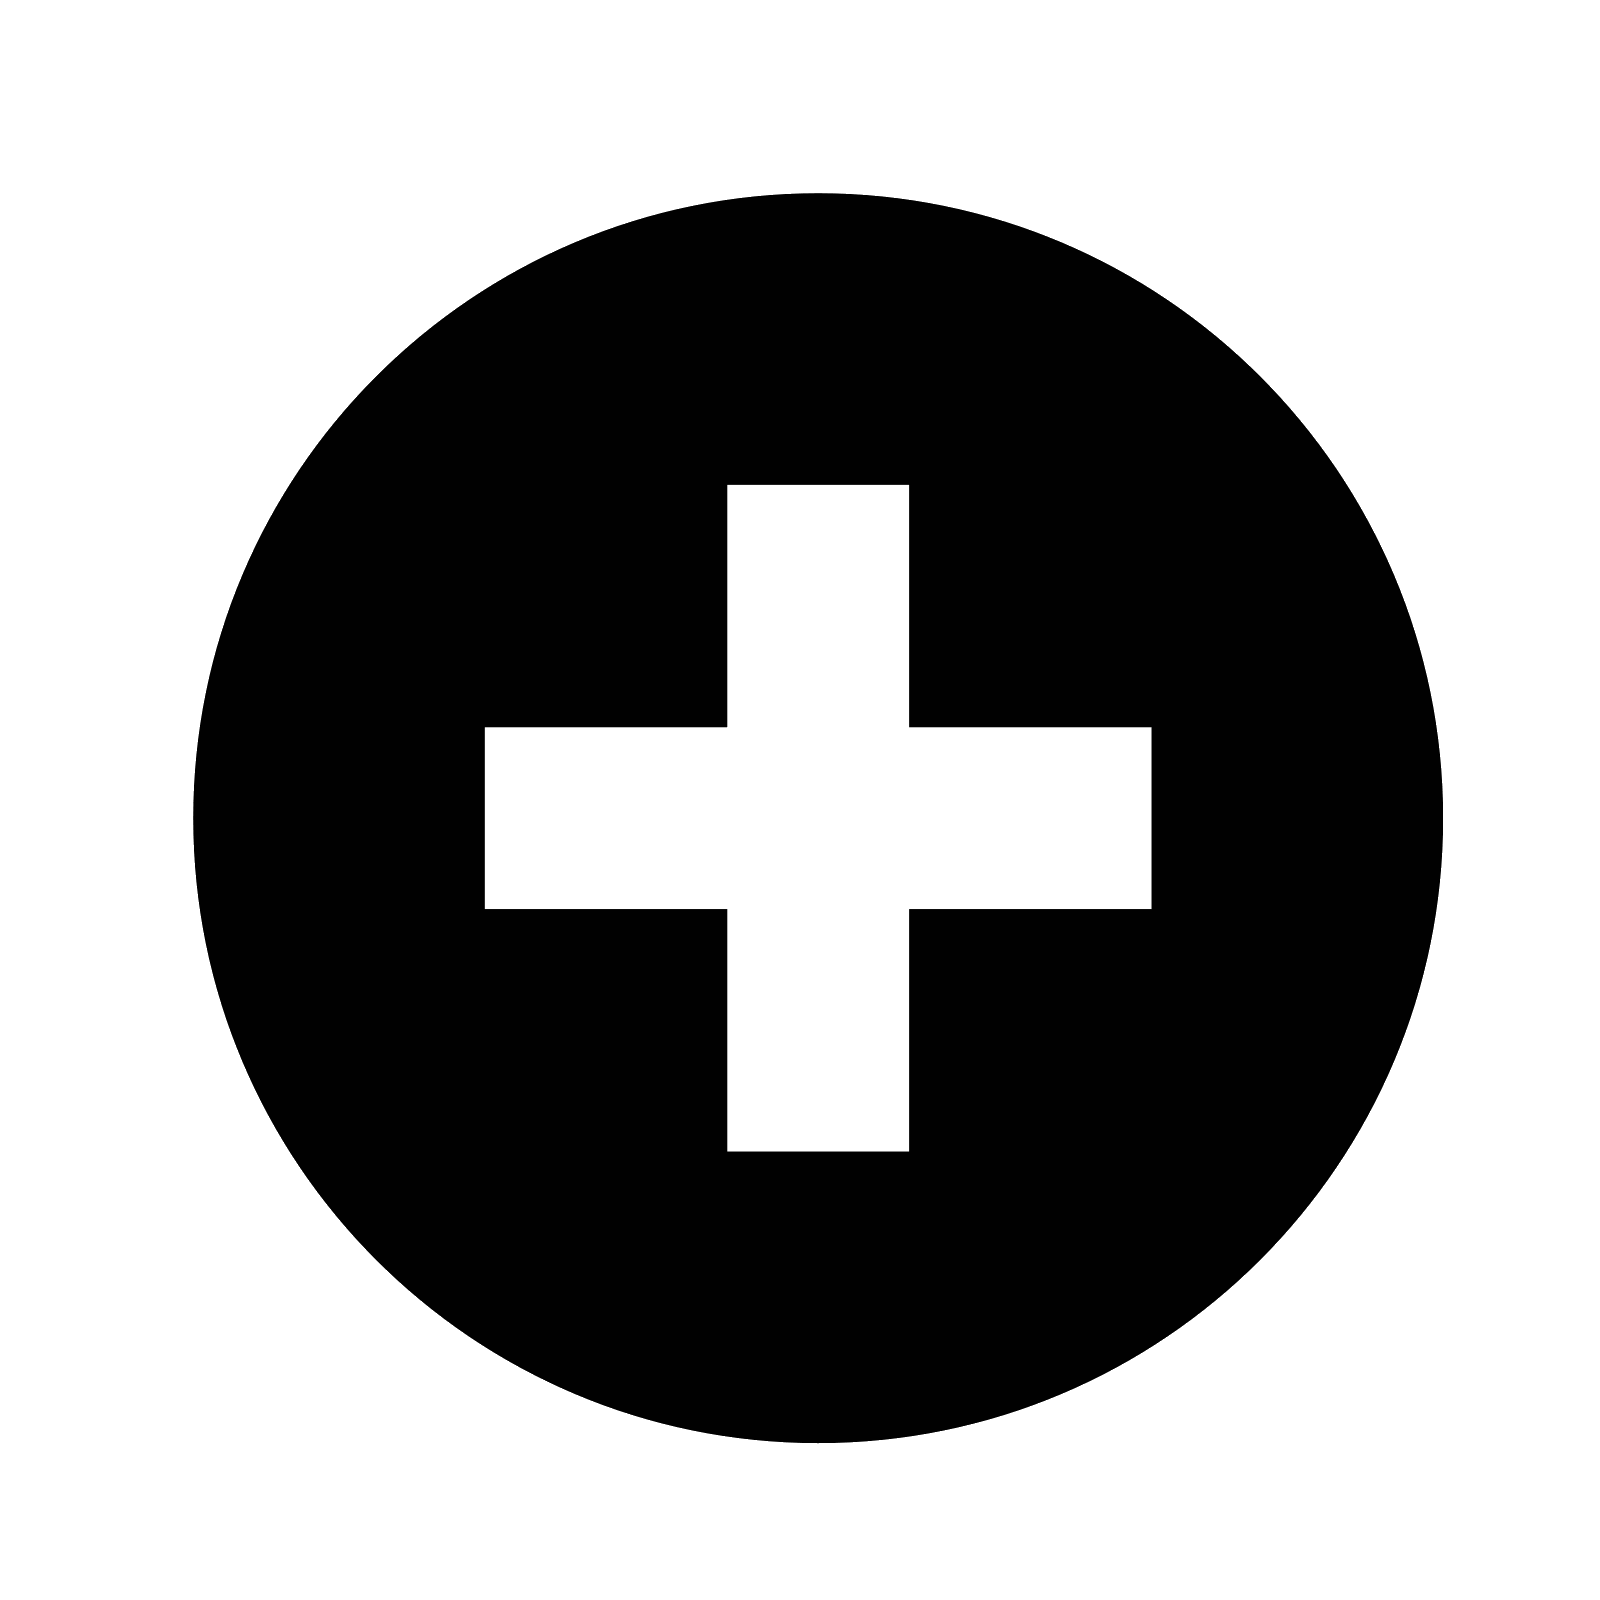
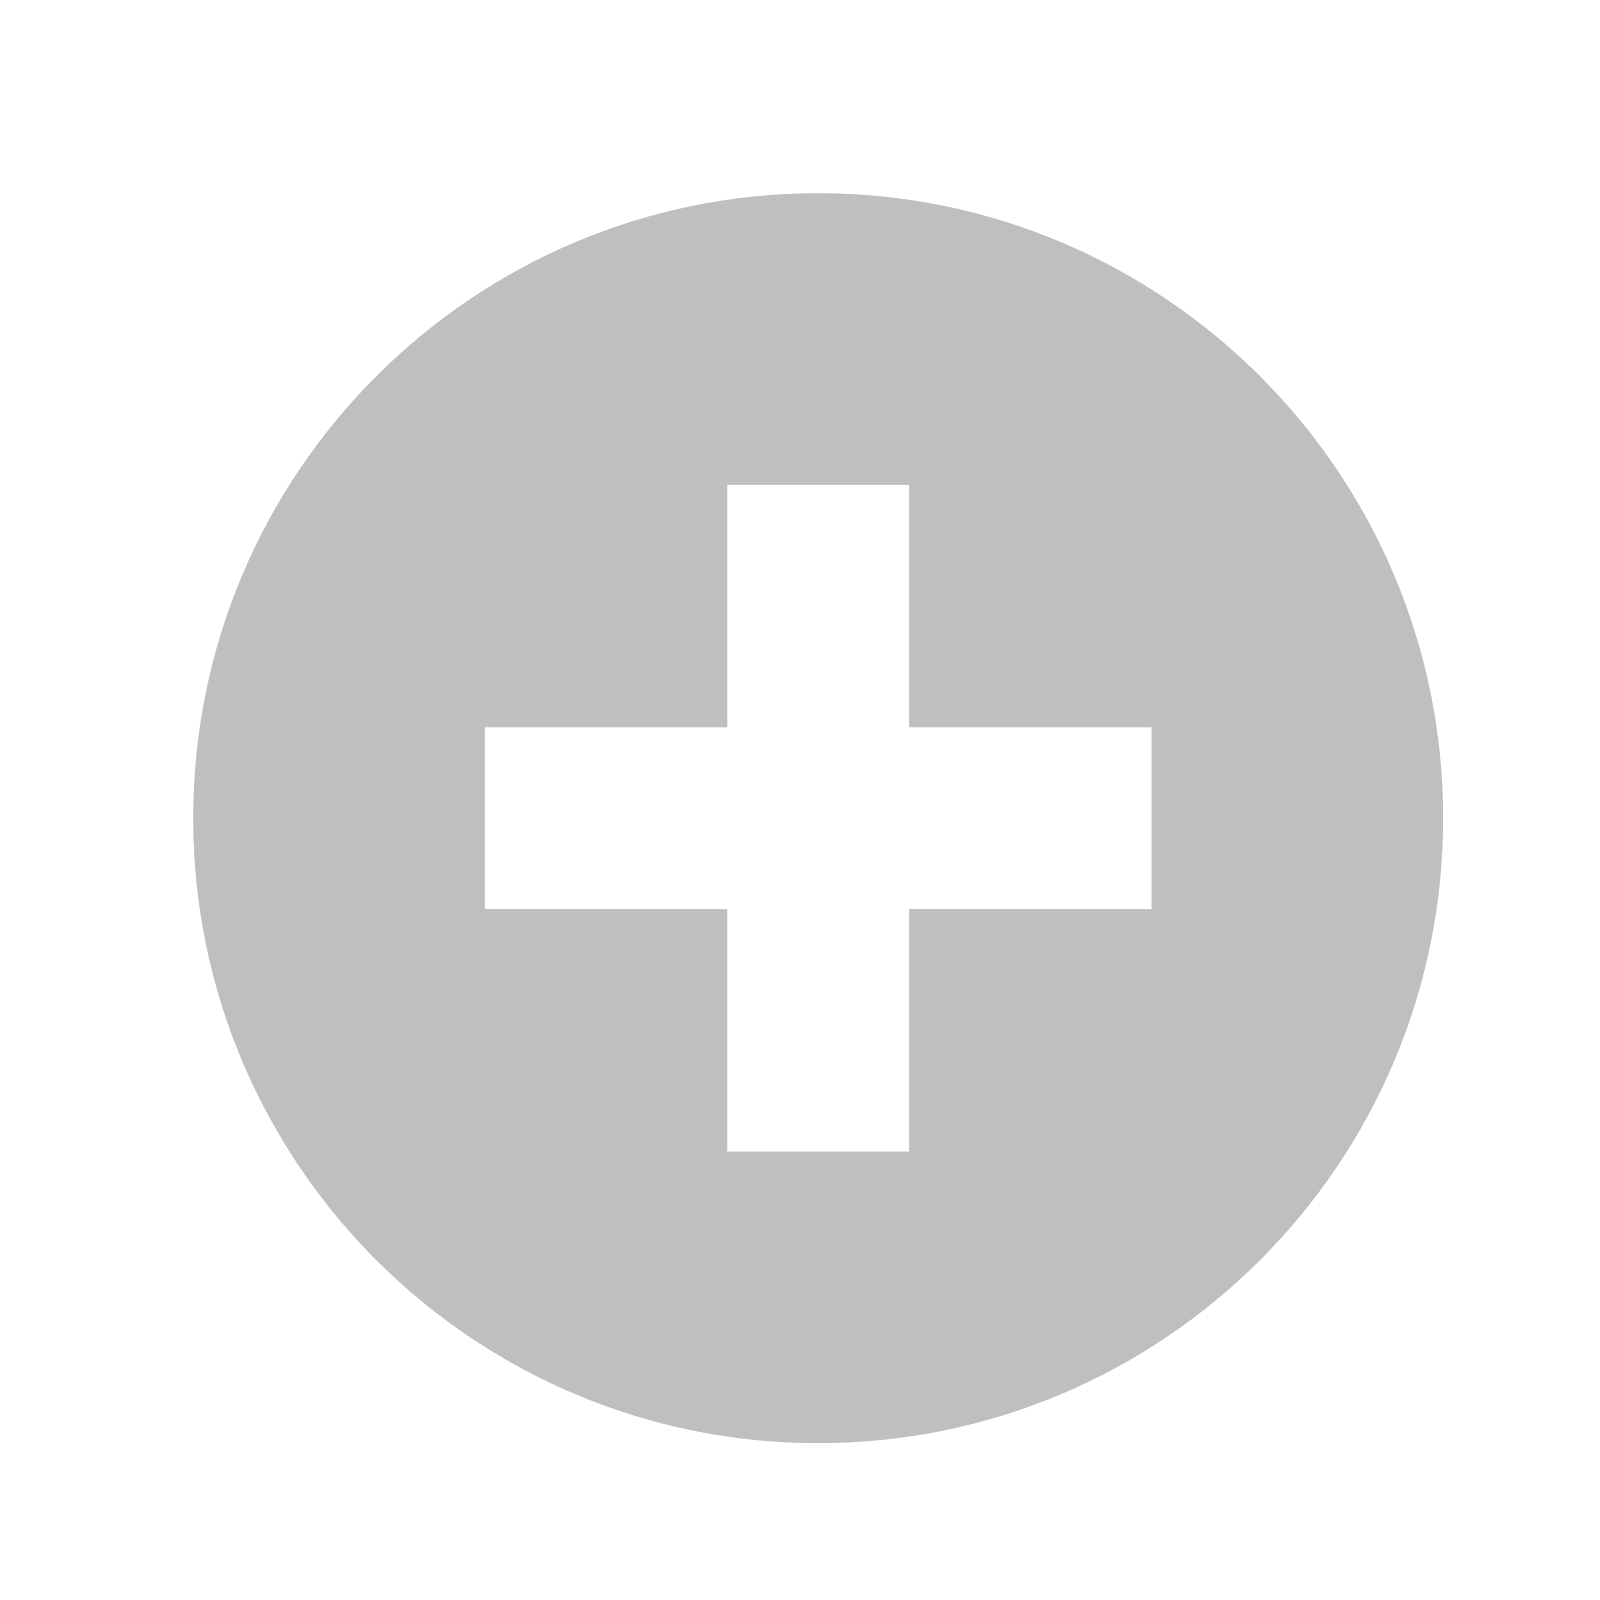
minor changes

diff --git a/src/components/SearchBar/SearchBar.js b/src/components/SearchBar/SearchBar.js
@@ -1,20 +1,33 @@
-import React from 'react';
+import React, {Component} from 'react';
 import './SearchBar.css'
-import NoteImage from './note.png' 
+import NoteImage from './plus.png'
+import NoteImageOnHover from './plusOnHover.png'
 
-const SearchBar = () => {
-  return (
-    <div className='flex items-center justify-between bb b--black-20'>
-      <div className='ma2 inputContainer w-100'>
-        <input className='pa1 pl4 boardingbox w-100 input-reset ba b--black-20 br4 black-50 f6' placeholder='All notes' type="text"/>
-      </div>
-      <div className='mr2'>
-        <div className='boardingbox pointer contain grow'>
-          <img src={NoteImage} alt=''/>
+class SearchBar extends Component {
+  
+  constructor() {
+    super()
+    this.state = {
+      imageHover: false
+    }
+  }
+
+  render() {
+    return (
+      <div className='flex items-center justify-between bb b--black-20'>
+        <div className='ma2 inputContainer w-100'>
+          <input className='pa1 pl4 boardingbox w-100 input-reset ba b--black-20 br4 black-50 f6' placeholder='All notes' type="text"/>
+        </div>
+        <div className='mr2'>
+          <div className='boardingbox pointer contain grow'>
+            <img src={(this.state.imageHover) ? NoteImageOnHover : NoteImage} alt=''
+              onMouseOver={()=>this.setState({imageHover: true})}
+              onMouseOut={()=>this.setState({imageHover: false})}/>
+          </div>
         </div>
       </div>
-    </div>
-  )
+    )
+  }
 }
 
 export default SearchBar;

diff --git a/src/components/Note/Note.js b/src/components/Note/Note.js
@@ -29,7 +29,7 @@ class Note extends Component {
 		const {active, mouseover} = this.state;
 		return(
 			<div className='flex'>
-				<div className={'ph2 pv4 b--black bg-black-20 edge' + ((mouseover && !active ) ? ' bg-lightest-blue' : '') + (active ? ' bg-blue' : '')}></div>
+				<div className={'ph2 pv4 b--black bg-black-20 edge' + ((mouseover && !active ) ? ' bg-light-blue' : '') + (active ? ' bg-blue' : '')}></div>
 				<div className=	{'pl3 note w-100 pv3 pointer' + ((mouseover && !active ) ? ' bg-washed-blue' : '') + (active ? ' bg-lightest-blue' : '')}
 					onMouseOver={this.onMouseOverlap}
 					onMouseOut={this.onMouseLeave}

diff --git a/src/containers/NoteList/NoteList.js b/src/containers/NoteList/NoteList.js
@@ -55,7 +55,7 @@ class NoteList extends Component {
 
 	render() {
 		return (
-			<div>
+			<div className='mt4 bt b--black-20'>
 				{
 					Notes.map((note, index) => {
 					 	return <Note name={note.name} desc={note.desc} key={index} onClick={ this.handleClick.bind(this) }/>

diff --git a/src/components/Note/Note.css b/src/components/Note/Note.css
@@ -4,7 +4,7 @@
 
 .edge {
 	box-shadow: 4px 0px 4px -4px rgba( 0, 0, 0, 0.8 );
-	z-index: 99;
+	z-index: 1;
 }
 
 .custom-grow {
